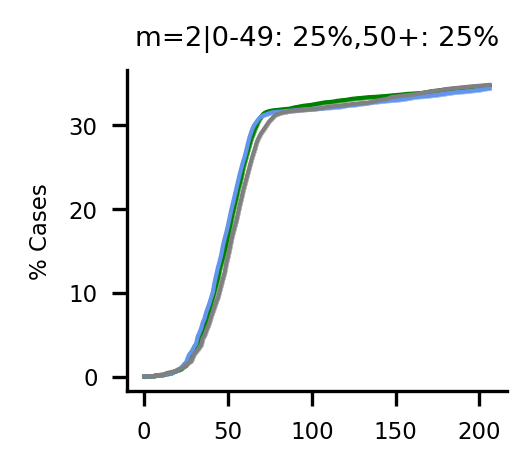
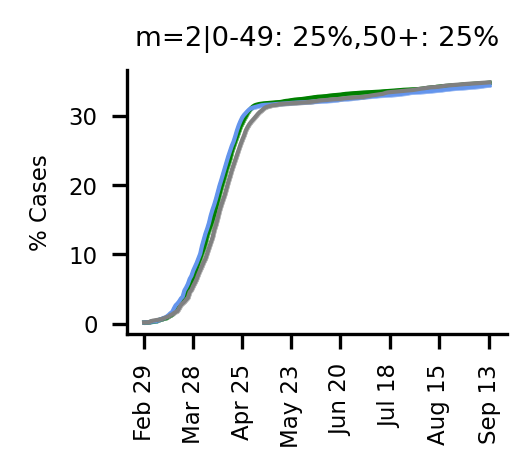
plotting dgs

diff --git a/analysis/New_York/vis.py b/analysis/New_York/vis.py
@@ -181,7 +181,7 @@ def plot_deaths(all_results, age_groups, num_days, observed_deaths, n, x_dates, 
 
     return None
 
-def plot_cases(all_results, age_groups, num_days, n, colors, labels, outdir):
+def plot_cases(all_results, age_groups, num_days, n, colors, labels, x_dates, dates, outdir):
     '''Plot the cases per age group with different links (m)
     and reductions in inf_prob
     '''
@@ -191,7 +191,7 @@ def plot_cases(all_results, age_groups, num_days, n, colors, labels, outdir):
     np_seeds = all_results['np_seed'].unique()
     combos = all_results['combo'].unique()
     alphas = all_results['alpha'].unique()
-
+    offset = num_days-198 #Only 198 days death data
     #Go through all ms
     for m in ms:
 
@@ -240,16 +240,16 @@ def plot_cases(all_results, age_groups, num_days, n, colors, labels, outdir):
             print(m)
             ai=0
             for a in alphas:
-                m_cases_av = np.average(total[ci,ai,:,:],axis=0)
-                m_cases_std = sem(total[ci,ai,:,:],axis=0)
+                m_cases_av = np.average(total[ci,ai,:,:],axis=0)[offset:]
+                m_cases_std = sem(total[ci,ai,:,:],axis=0)[offset:]
                 ax1.plot(np.arange(m_cases_av.shape[0]), m_cases_av, color = colors[str(a)], linewidth=1, label = str(a))
                 ax1.fill_between(np.arange(m_cases_av.shape[0]),m_cases_av-m_cases_std,m_cases_av+m_cases_std,color = colors[str(a)],alpha=0.5)
 
                 ai+=1
             ci+=1
 
-            # ax1.set_xticks(x_dates)
-            # ax1.set_xticklabels(dates, rotation='vertical')
+            ax1.set_xticks(x_dates)
+            ax1.set_xticklabels(dates, rotation='vertical')
             ax1.set_title('m='+str(m)+'|'+labels[c])
             ax1.spines['top'].set_visible(False)
             ax1.spines['right'].set_visible(False)
@@ -261,58 +261,85 @@ def plot_cases(all_results, age_groups, num_days, n, colors, labels, outdir):
     return None
 
 
-def plot_degrees(all_results, age_groups, num_days, n, colors, labels, outdir):
+def plot_degrees(all_results, age_groups, num_days, n, colors, labels, x_dates, dates, outdir):
     '''Plot the max degree removed each day divided by the maximum degree in the net
     '''
 
+
     ms = all_results['m'].unique()
-    seeds = all_results['seed'].unique()
+    net_seeds = all_results['net_seed'].unique()
+    np_seeds = all_results['np_seed'].unique()
+    combos = all_results['combo'].unique()
+    alphas = all_results['alpha'].unique()
+    offset = num_days-198 #Only 198 days death data
     #Go through all ms
     for m in ms:
+
         m_results = all_results[all_results['m']==m]
-        #Total
+        #Go through all age_groups
+        total = np.zeros((len(combos),len(alphas),len(net_seeds)*len(np_seeds),int(num_days)))
 
-        fig1, ax1 = plt.subplots(figsize=(4.5/2.54, 4/2.54))
-        fig2, ax2 = plt.subplots(figsize=(4.5/2.54, 4/2.54))
-        combo=1
-        fetched_y = []
-        for c in colors:
+
+        #Go through all combos
+        ci = -1 #combo index
+        for c in combos:
             m_combo_results = m_results[m_results['combo']==c]
-            degrees = np.zeros((len(seeds),num_days))
-            for seed in seeds:
-                m_combo_seed_results = m_combo_results[m_combo_results['seed']==seed]
-                degrees[seed,:] = np.array(m_combo_seed_results['perc_above_left']) #Get cases for combo and ag
-            #Average over seeds
-            degrees_av = 100*np.average(degrees,axis=0)
-            degrees_std = 100*np.std(degrees,axis=0)
-            if c != '1_1_1_1':
-                ax1.plot(np.arange(len(degrees_av)),degrees_av, color = colors[c], linewidth=1)
-                ax1.plot(np.arange(len(degrees_av)),degrees_av-degrees_std, color = colors[c],linewidth=0.5, linestyle='dashed')
-                ax1.plot(np.arange(len(degrees_av)),degrees_av+degrees_std, color = colors[c],linewidth=0.5, linestyle='dashed')
-            else:
-                ax2.plot(np.arange(len(degrees_av)),degrees_av, color = colors[c], linewidth=1)
-                ax2.plot(np.arange(len(degrees_av)),degrees_av-degrees_std, color = colors[c],linewidth=0.5, linestyle='dashed')
-                ax2.plot(np.arange(len(degrees_av)),degrees_av+degrees_std, color = colors[c],linewidth=0.5, linestyle='dashed')
-        ax1.set_xlim([0,25])
-        ax1.set_title('m='+str(m))
-        ax1.spines['top'].set_visible(False)
-        ax1.spines['right'].set_visible(False)
-        ax1.set_xlabel('Day')
-        ax1.set_ylabel('Nodes left above t (%)')
-        fig1.tight_layout()
-        fig1.savefig(outdir+'deg_'+str(m)+'_total.png', format='png', dpi=300)
+            ci+=1
+            ai = -1 #Alpha index
+            #Go through all alphas
+            for alpha in alphas:
+                #Save cases
+                ag_deg = np.zeros((len(net_seeds)*len(np_seeds),num_days))
+                m_combo_alpha_results = m_combo_results[m_combo_results['alpha']==alpha]
+                ai+=1
+                #go through all net seeds
+                ni=-1 #net index
+                for net_seed in net_seeds:
+                    m_combo_alpha_net_results = m_combo_alpha_results[m_combo_alpha_results['net_seed']==net_seed]
+                    #go through all np seeds
+                    for np_seed in np_seeds:
+                        ni+=1
+                        m_combo_alpha_net_np_results = m_combo_alpha_net_results[m_combo_alpha_net_results['np_seed']==np_seed]
+                        ag_deg[ni,:] = np.array(m_combo_alpha_net_np_results['perc_above_left']) #Get deaths for combo and ag
 
-        ax2.set_xlim([0,25])
-        ax2.set_title('m='+str(m))
-        ax2.spines['top'].set_visible(False)
-        ax2.spines['right'].set_visible(False)
-        ax2.set_xlabel('Day')
-        ax2.set_ylabel('Nodes left above t (%)')
-        fig2.tight_layout()
-        fig2.savefig(outdir+'deg_'+str(m)+'_total.png', format='png', dpi=300)
-        plt.close()
+
+                #Cumulative
+                ag_deg_av = 100*np.cumsum(np.average(ag_deg,axis=0))/n
+                ag_deg_std = 100*np.cumsum(sem(ag_deg,axis=0))/n
+
+
+                #Add to total
+                total[ci,ai,:,:] +=ag_deg_av
+
+
+
+        #Total
+        ci=0
+        for c in combos:
+            fig1, ax1 = plt.subplots(figsize=(4.5/2.54, 4/2.54))
+            print(m)
+            ai=0
+            for a in alphas:
+                m_deg_av = np.average(total[ci,ai,:,:],axis=0)[offset:]
+                m_deg_std = sem(total[ci,ai,:,:],axis=0)[offset:]
+                ax1.plot(np.arange(m_deg_av.shape[0]), m_deg_av, color = colors[str(a)], linewidth=1, label = str(a))
+                ax1.fill_between(np.arange(m_deg_av.shape[0]),m_deg_av-m_deg_std,m_deg_av+m_deg_std,color = colors[str(a)],alpha=0.5)
+
+                ai+=1
+            ci+=1
+
+            # ax1.set_xticks(x_dates)
+            # ax1.set_xticklabels(dates, rotation='vertical')
+            ax1.set_title('m='+str(m)+'|'+labels[c])
+            ax1.spines['top'].set_visible(False)
+            ax1.spines['right'].set_visible(False)
+            ax1.set_ylabel('% above t left')
+            fig1.tight_layout()
+            fig1.savefig(outdir+'deg_'+str(m)+'_'+str(c)+'_total.png', format='png', dpi=300)
+            plt.close()
 
     return None
+
 #####MAIN#####
 #Set font size
 matplotlib.rcParams.update({'font.size': 5.5})
@@ -371,12 +398,10 @@ labels = {'1_1_1_1':'0-49: 100%,50+: 100%', '2_2_2_2':'0-49: 50%,50+: 50%', '3_3
 #plot_deaths(all_results, age_groups, num_days, observed_deaths, n, x_dates, dates, colors, labels, outdir+'deaths/')
 
 #Plot cases
-plot_cases(all_results, age_groups, num_days, n, colors, labels, outdir+'cases/')
+#plot_cases(all_results, age_groups, num_days, n, colors, labels, x_dates, dates, outdir+'cases/')
 
-#Plot the edges
-#plot_edges(all_results, age_groups, num_days,  n, colors, labels, outdir+'edges/')
 
 #Plot the max degree reomved each day
-#plot_degrees(all_results, age_groups, num_days, n, colors, labels, outdir+'degrees/')
+plot_degrees(all_results, age_groups, num_days, n, colors, labels, x_dates, dates, outdir+'degrees/')
 #Plot the number removed - the ones that have issued spread
 #plot_epidemic(np.arange(num_days), 100*np.array(num_removed)/n,'Days since initial spread','% Active spreaders','Active spreaders',m, outdir+'active_spreaders_'+str(m)+suffix)
